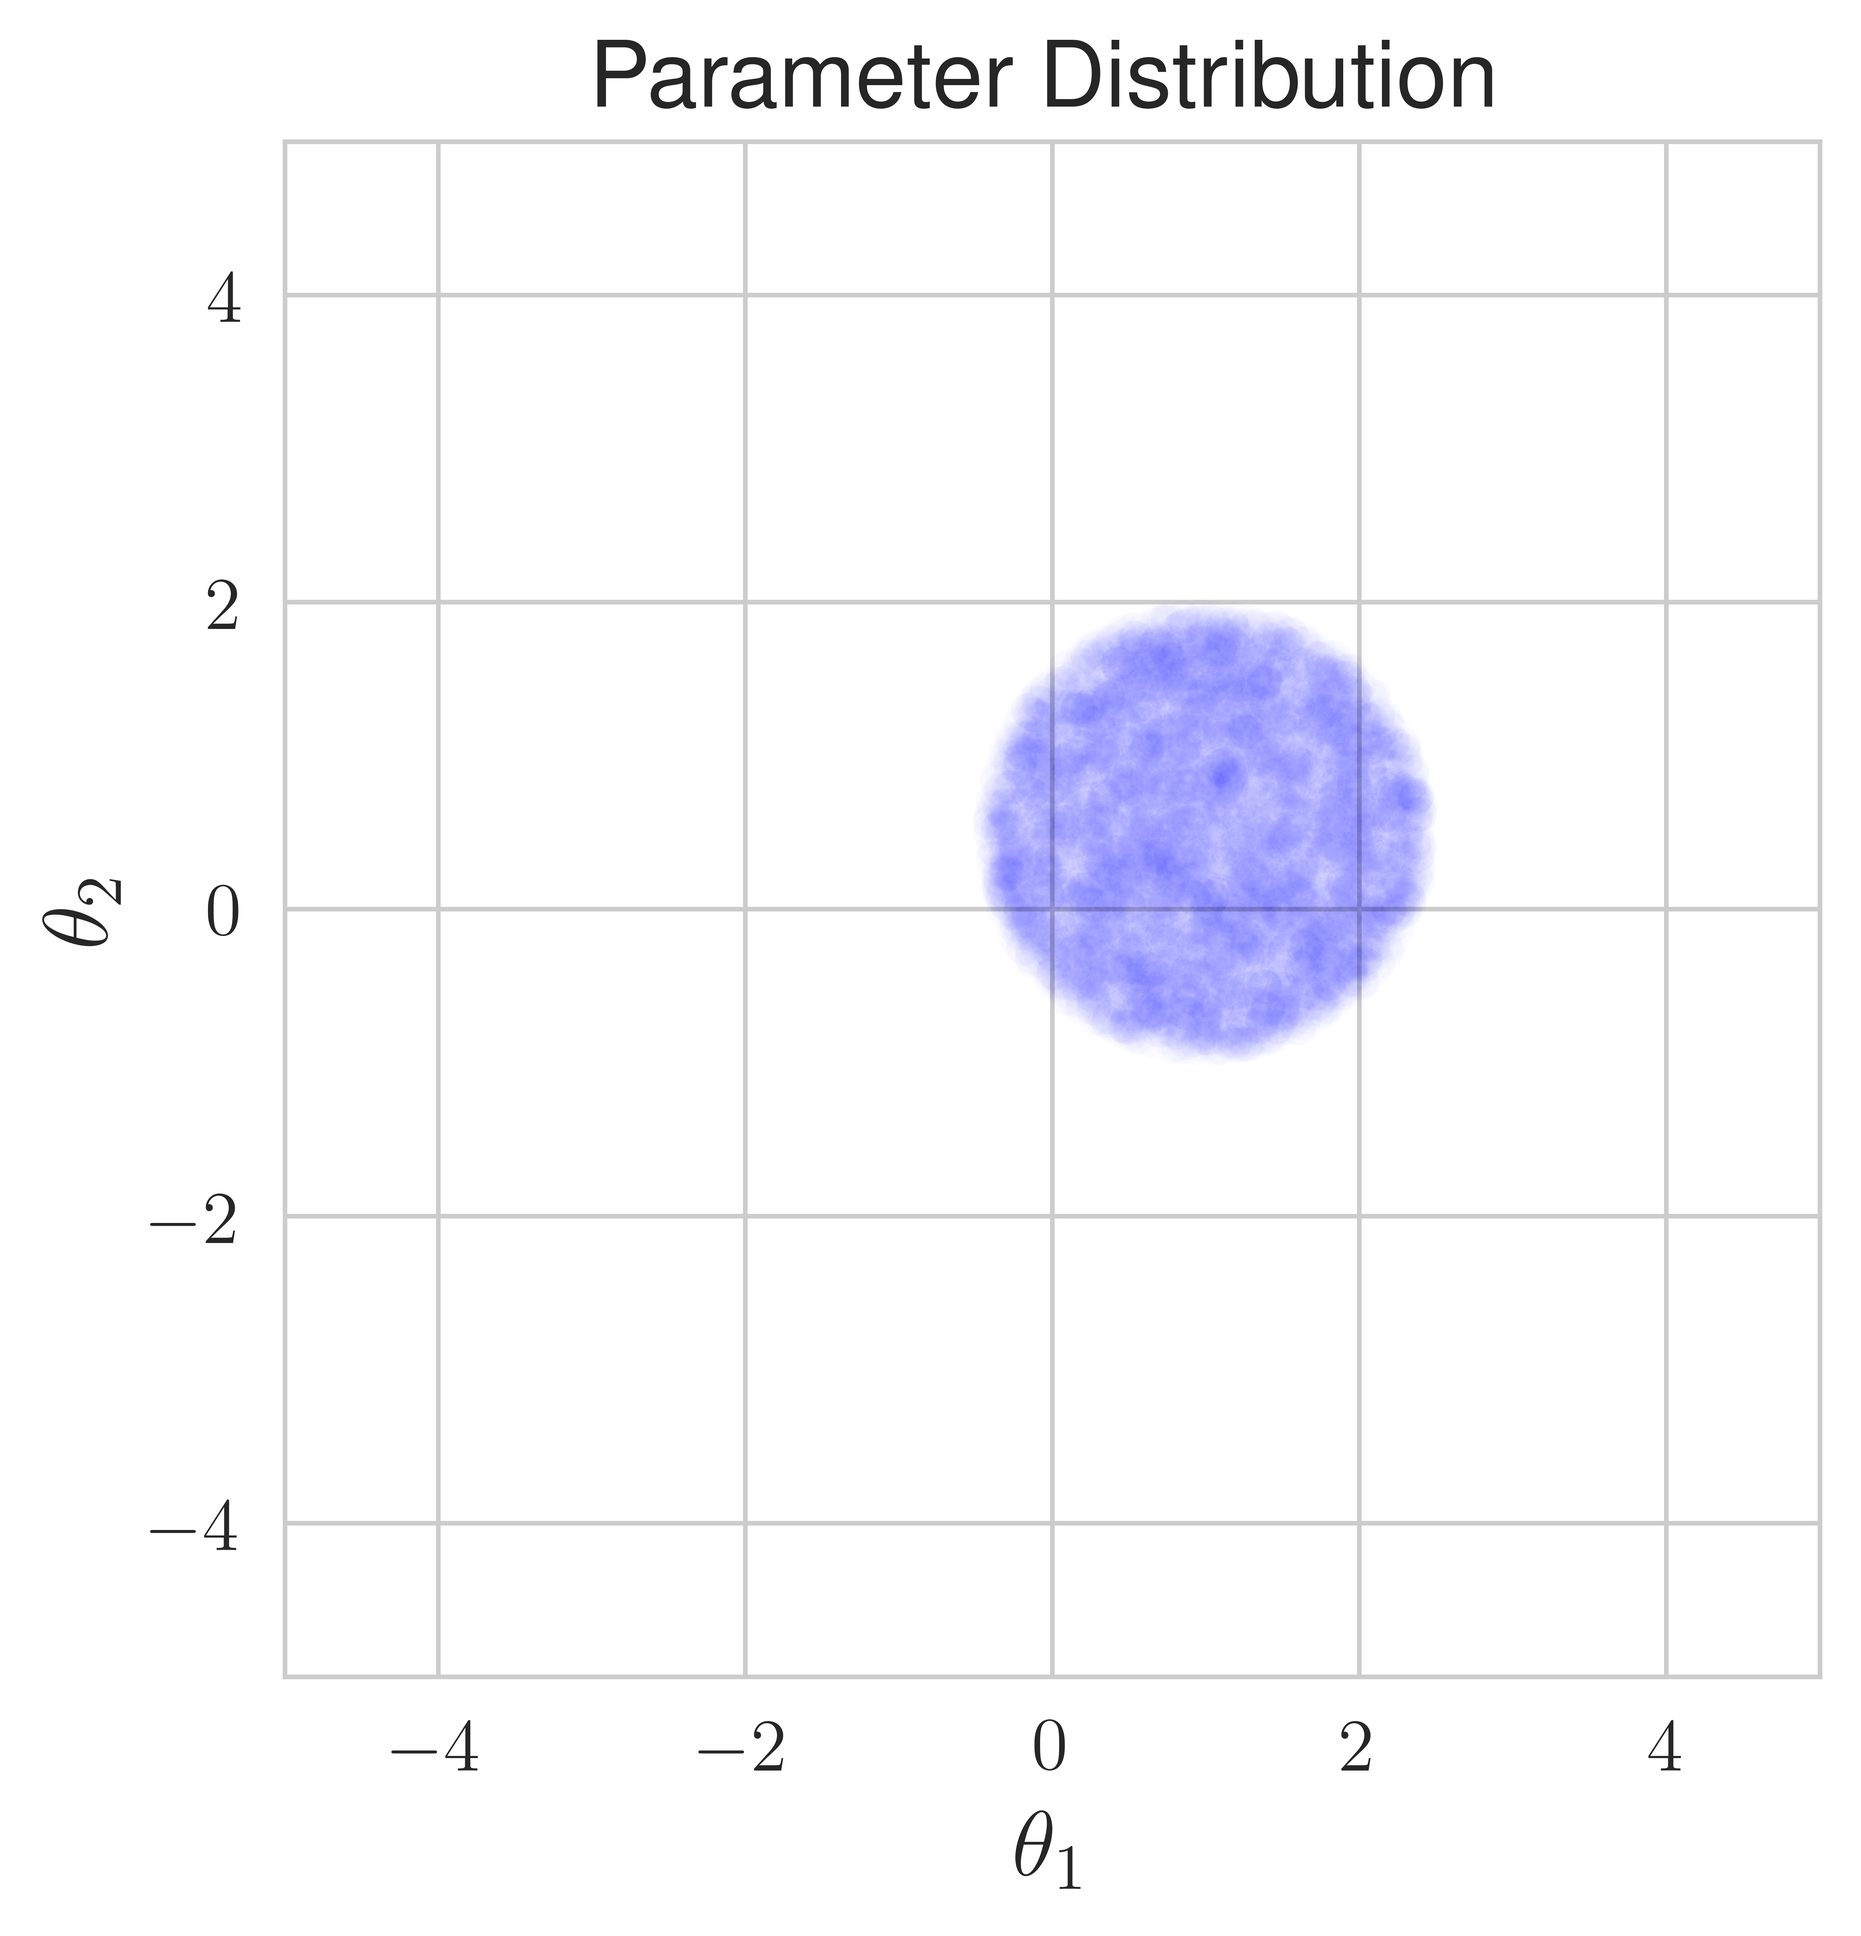
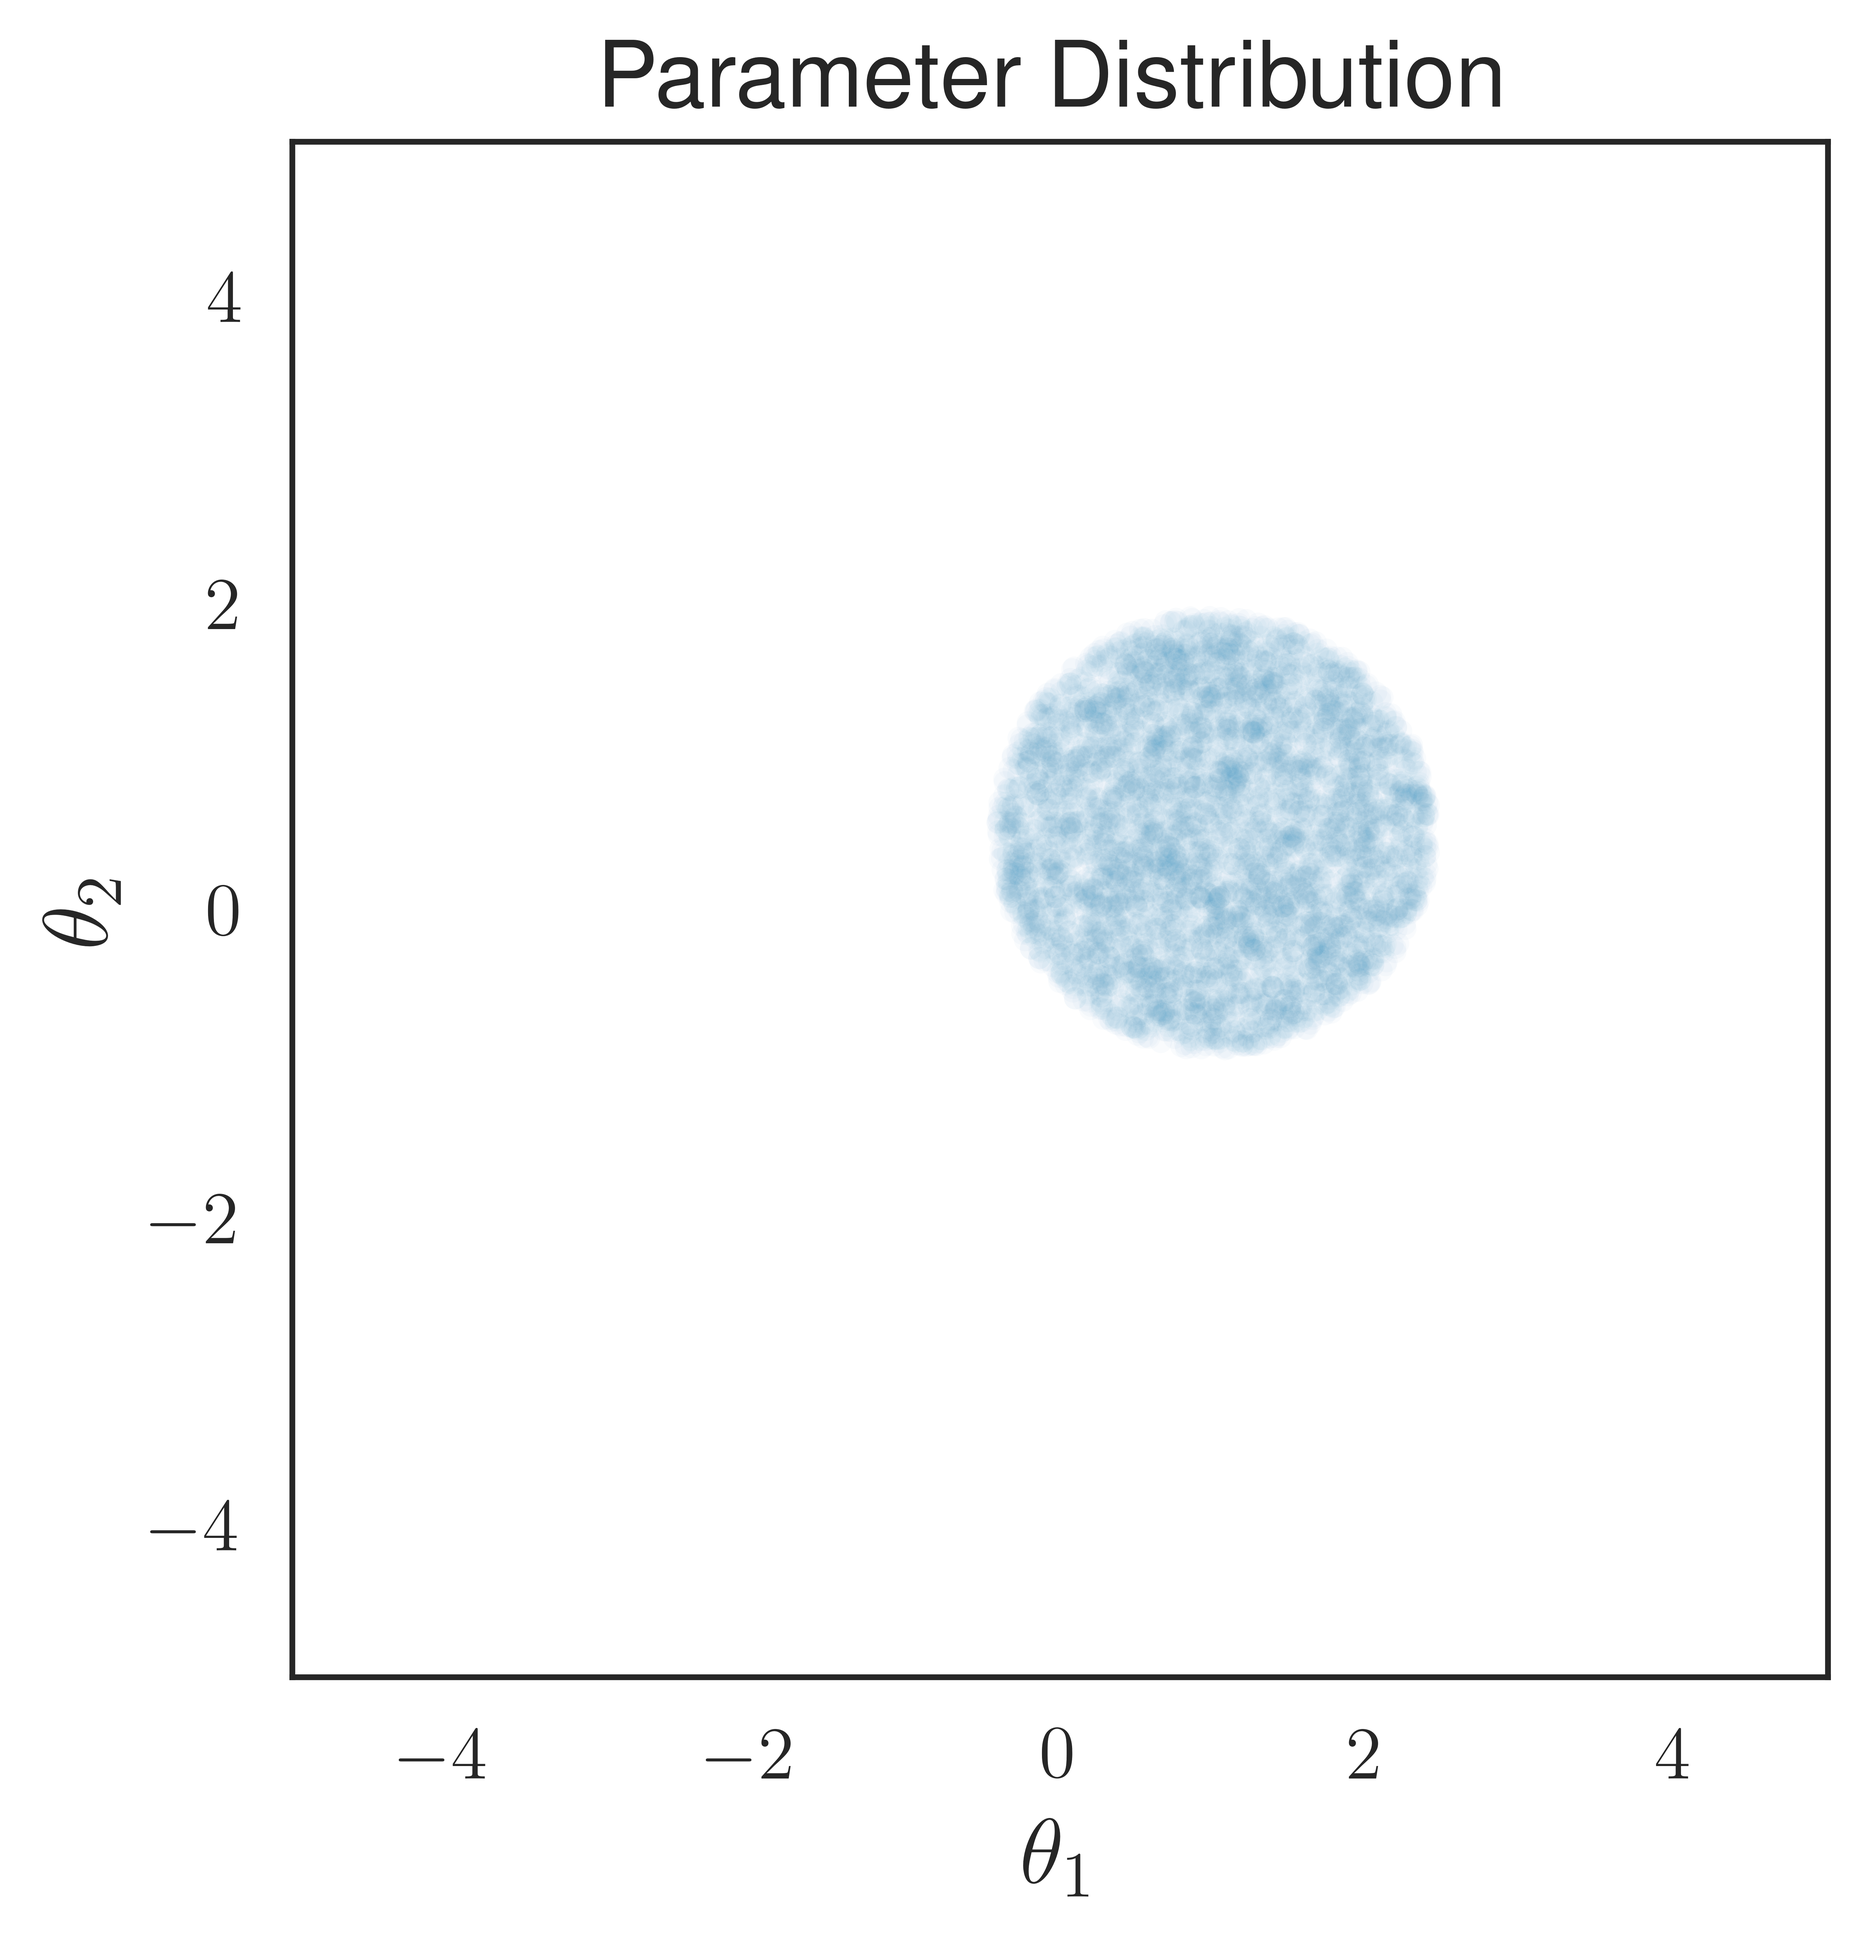
new figure

diff --git a/chapters/measure_selection.tex b/chapters/measure_selection.tex
@@ -117,7 +117,16 @@ As a side note, note that $\delta$ carries the meaning of time incertitude, as $
   \includegraphics[height=.25\linewidth]{initial.png}
   \includegraphics[height=.25\linewidth]{test_100.png}
   \includegraphics[height=.26\linewidth]{test_1000.png}
-  \caption{Experiments depicting Definition \ref{def:2} when $\Theta_0\subset\R^2$. Choosing 5000 initial conditions, I represented the parameter distribution after 100 steps (middle) and 1000 steps (right) of the gradient descent algorithm for LOO (green) and influence functions approximation of unlearning (orange). The arrows follow the LOO flow and their colour represents the intensity.}
+  \caption{Experiments for 1 neuron tanh network without bias approximating a 3-neuron teacher network in a noisy observation setting. Choosing 5000 initial conditions, I represented the parameter distribution after 100 steps (middle) and 1000 steps (right) of the Adam algorithm for LOO (green) and influence functions approximation of unlearning (orange). The arrows follow the LOO flow for GD and their colour represents the intensity.}
+  \label{fig:def2exp}
+\end{figure}
+
+\begin{figure}
+  \centering
+  \includegraphics[height=.32\linewidth]{test_2_100.png}
+  \includegraphics[height=.32\linewidth]{test_2_1000.png}
+  \includegraphics[height=.32\linewidth]{test_2_10000.png}
+  \caption{Same setting as Figure \ref{fig:def2exp}, but trained with vanilla GD algorithm. From left to right, the algorithm has been run respectively for 100, 1000 and 10000 steps.}
   \label{fig:def2exp}
 \end{figure}
 
